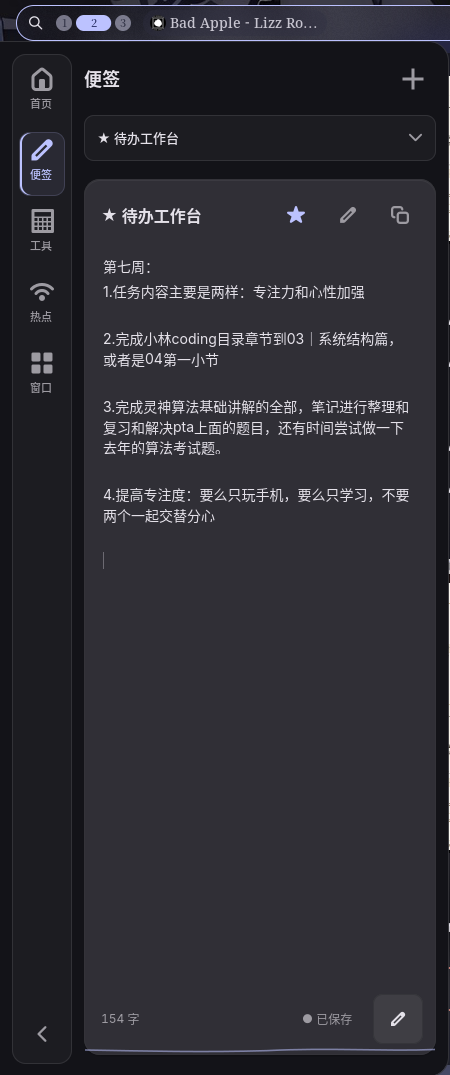
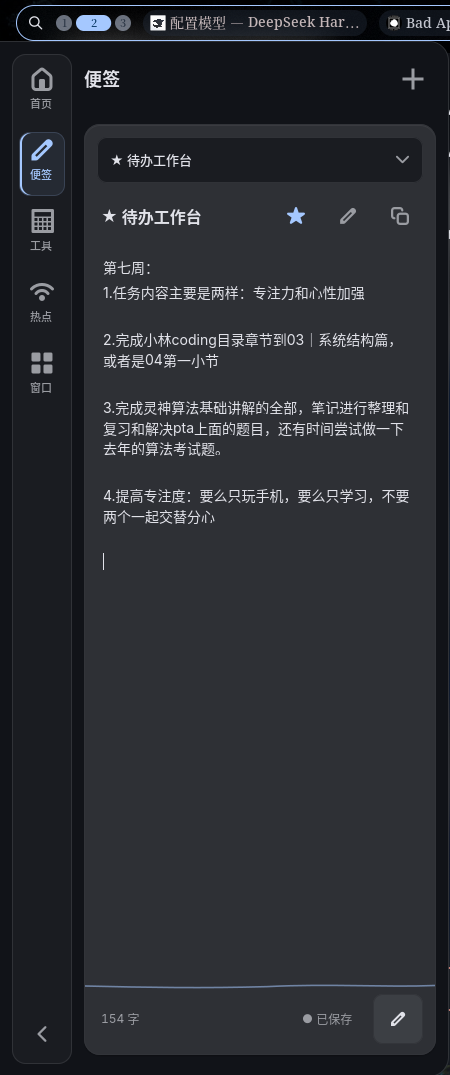
fix(tide-sidebar): 便签波线从被页脚遮住改成页脚上方的可见细线
上一版把 54px 实心波换成 8px 波线后，它仍留在 Gtk.Overlay 的底层，被页脚行
完全盖住——等于删掉了却还占着结构。改成纵向排列：波线在上、字数/状态/铅笔在
下，线在蓝色调色板下清晰可见。回归测试同步改为校验“波线是页脚容器的第一个
子节点、页脚紧随其后”，而不是找 Overlay。

顺带把 5 张预览图重拍为换壁纸后的蓝色调色板版本（上一版是玫瑰色），
md5 与 files.tsv 同步。

diff --git a/payload/home/noctalia-plugins/tide-sidebar/native/views/notes.js b/payload/home/noctalia-plugins/tide-sidebar/native/views/notes.js
@@ -322,19 +322,21 @@ export function createNotes(ctx) {
     empty.append(emptyTitle); empty.append(emptyAdd); bodyStack.add_named(empty, 'empty');
     bodyStack.set_visible_child_name('empty'); card.append(bodyStack);
 
-    const footerLayer = new Gtk.Overlay({hexpand: true}); footerLayer.add_css_class('note-footer-layer');
+    // Rule above the footer, not behind it: the 8px wave used to sit under the
+    // footer row (54px overlay slot) and was simply invisible after the redesign.
+    const footerLayer = U.box(Gtk.Orientation.VERTICAL, 4, ['note-footer-layer']);
     const accent = ctx.palette?.()?.t_accent || '#e8a08c';
     const footerWave = U.waveRule(accent, 8); footerWave.add_css_class('note-footer-wave');
-    footerLayer.set_child(footerWave);
+    footerLayer.append(footerWave);
     const footer = U.box(Gtk.Orientation.HORIZONTAL, 10, ['note-footer']);
-    footer.set_halign(Gtk.Align.FILL); footer.set_valign(Gtk.Align.END);
+    footer.set_halign(Gtk.Align.FILL);
     const count = U.label('0 字', ['caption']);
     const status = U.label('正在连接…', ['status-label']); status.set_hexpand(true); status.set_xalign(1);
     const actionsButton = new Gtk.MenuButton({tooltip_text: '便签操作'});
     actionsButton.add_css_class('note-actions-button'); actionsButton.set_icon_name('document-edit-symbolic');
     actionsButton.set_always_show_arrow(false); actionsButton.set_popover(editPopover);
     footer.append(count); footer.append(status); footer.append(actionsButton);
-    footerLayer.add_overlay(footer); footerLayer.set_measure_overlay(footer, false); card.append(footerLayer);
+    footerLayer.append(footer); card.append(footerLayer);
     const undoRevealer = new Gtk.Revealer({transition_type: Gtk.RevealerTransitionType.SLIDE_DOWN, transition_duration: U.DURATION.reveal});
     const undoRow = U.box(Gtk.Orientation.HORIZONTAL, 7, ['undo-row']);
     const undoText = U.label('已移到回收站', ['caption']); undoText.set_hexpand(true);

diff --git a/payload/home/noctalia-plugins/tide-sidebar/tests/native_notes_spec.js b/payload/home/noctalia-plugins/tide-sidebar/tests/native_notes_spec.js
@@ -144,10 +144,12 @@ test('real GTK editor preserves selection, undo and independent note buffers', (
         b: parseInt(fgToken.slice(4, 6), 16) / 255};
     check(Math.abs(color.red - want.r) < 0.01 && Math.abs(color.green - want.g) < 0.01
         && Math.abs(color.blue - want.b) < 0.01, 'the native editor lost the palette foreground ink');
-    const footer = find(h.view.widget, item => item instanceof Gtk.Overlay && item.has_css_class('note-footer-layer'));
-    check(footer && footer.get_child() instanceof Gtk.DrawingArea, 'the footer is not backed by the shared natural wave');
-    equal(footer.get_child().get_content_height(), 8, 'footer rule height diverged from the thin accent rule');
-    check(!footer.get_child().get_can_target(), 'decorative wave must not intercept editor or footer input');
+    const footer = find(h.view.widget, item => item.has_css_class('note-footer-layer'));
+    const rule = footer?.get_first_child();
+    check(rule instanceof Gtk.DrawingArea, 'the footer is not preceded by the shared wave rule');
+    equal(rule.get_content_height(), 8, 'footer rule height diverged from the thin accent rule');
+    check(!rule.get_can_target(), 'decorative wave must not intercept editor or footer input');
+    check(rule.get_next_sibling()?.has_css_class('note-footer'), 'footer row must follow the rule in the same column');
 
     h.button('复制正文').emit('clicked');
     equal(h.copies.at(-1), 'draft中', 'copy did not use the local draft');
